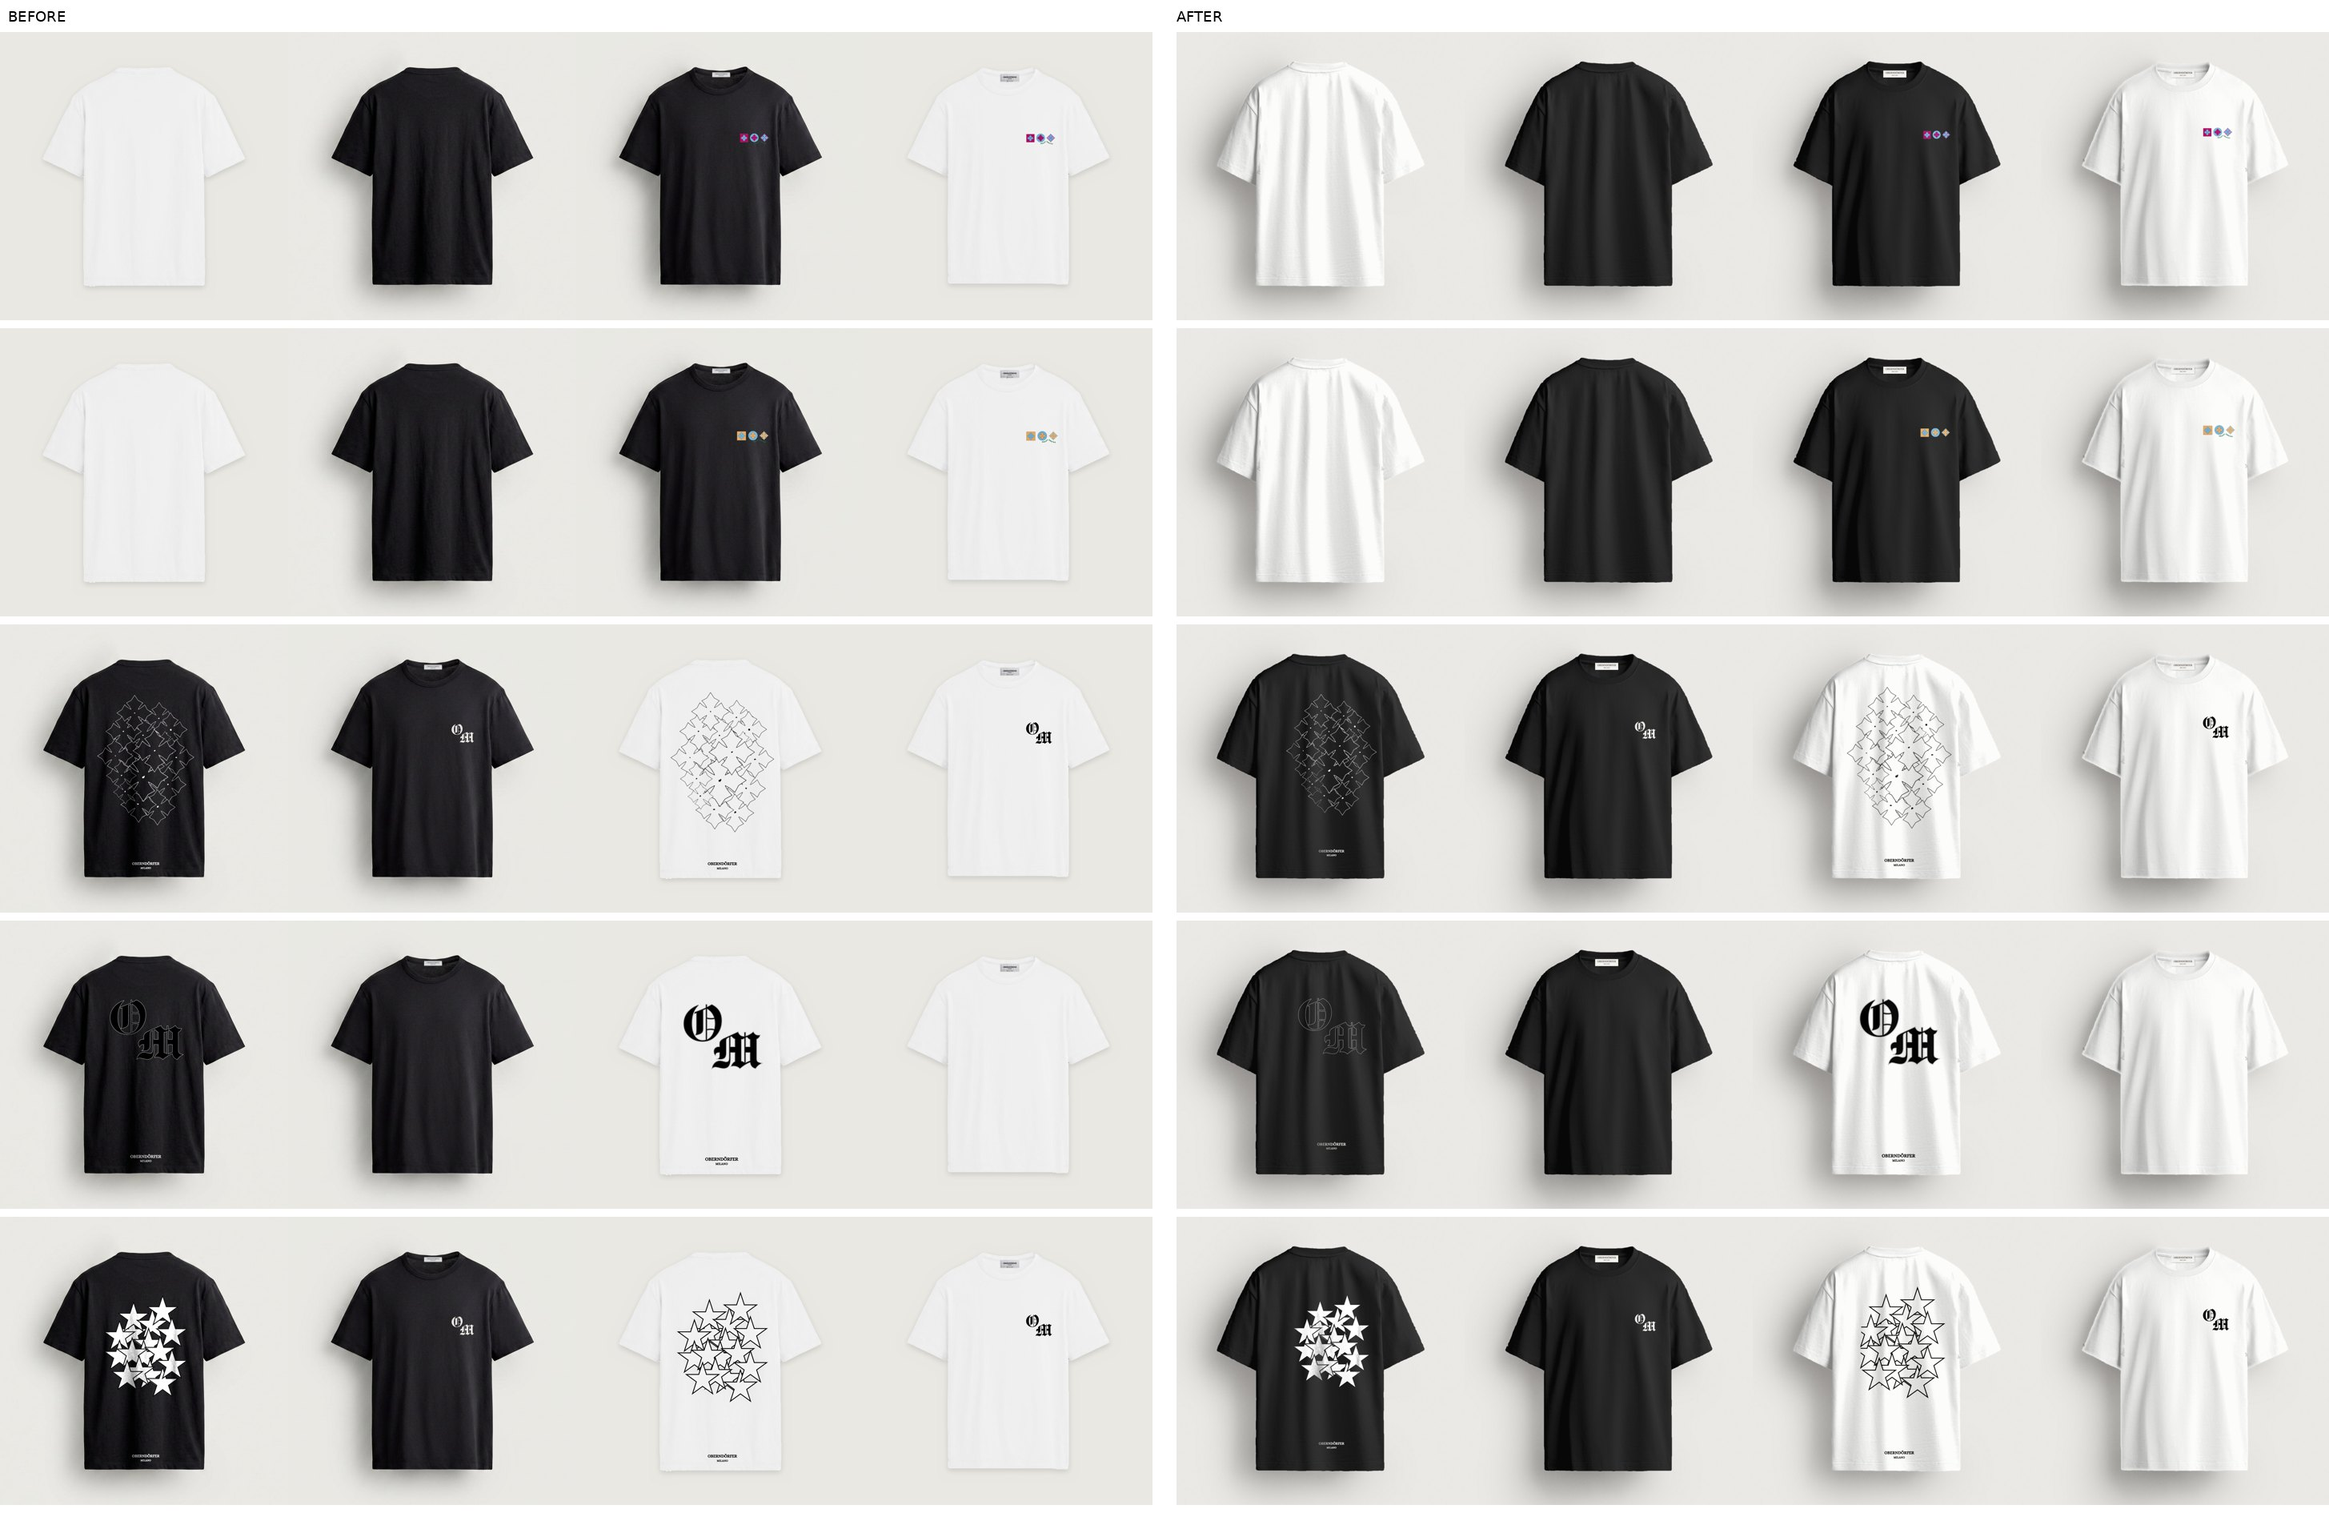
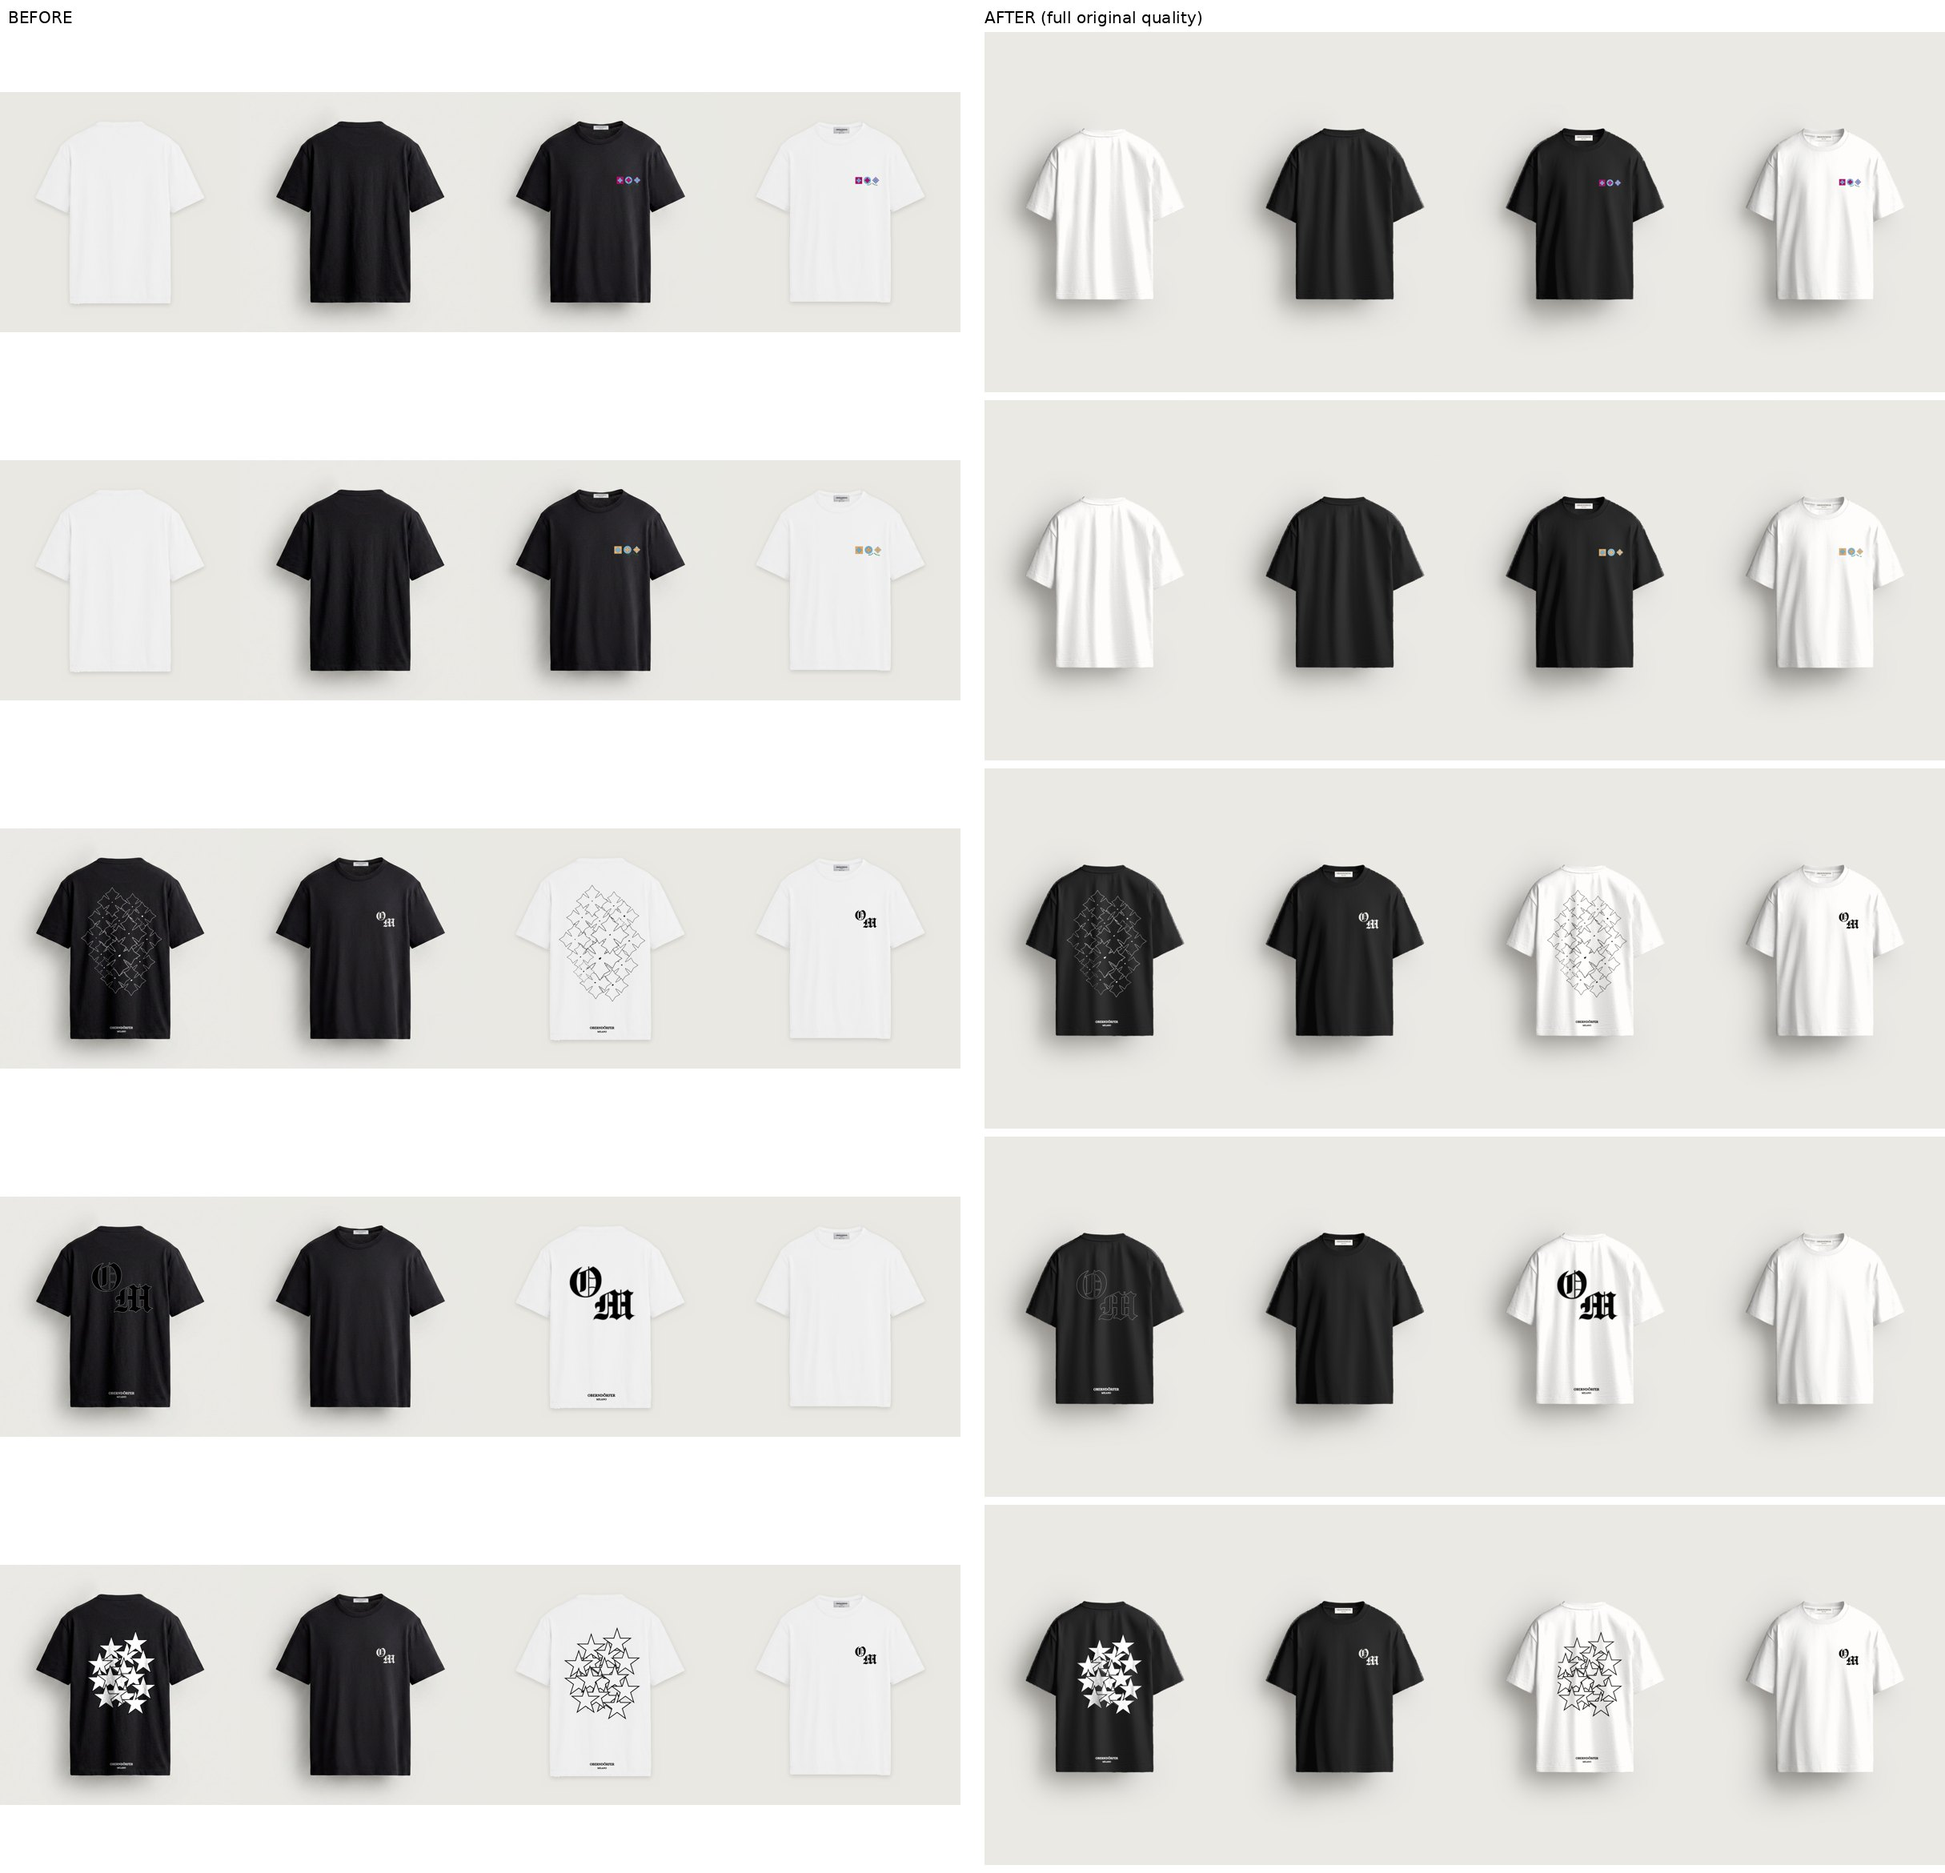
T-shirt photos v2: full-resolution in-place recolour, designs aligned to the white versions
Claude-Session: https://claude.ai/code/session_01AC1f37guDfHWxkMWq358hb

diff --git a/docs/tshirts/v2.py b/docs/tshirts/v2.py
@@ -1,0 +1,100 @@
+import cv2,numpy as np,os,sys
+from extract import shirt_geom
+from compose import make_label
+REF={'front':'ref/u3870_8.jpg','back':'ref/u3870_9.jpg'}
+def tolab(i): return cv2.cvtColor(i.astype(np.float32)/255.,cv2.COLOR_BGR2Lab)
+def tobgr(L): return np.clip(cv2.cvtColor(L.astype(np.float32),cv2.COLOR_Lab2BGR)*255,0,255)
+def recolor(side,color):
+    im=cv2.imread(REF[side]); Lab=tolab(im); L,A,B=Lab[...,0],Lab[...,1],Lab[...,2]
+    C=np.sqrt(A**2+B**2)
+    w=np.clip((C-4.5)/(10.3-4.5),0,1)                    # per-pixel pink coverage at the outline (wall chroma ~2.6)
+    w=cv2.GaussianBlur(w,(0,0),0.6)
+    m=(cv2.GaussianBlur(C,(0,0),2)>6).astype(np.uint8)
+    cnts,_=cv2.findContours(m,cv2.RETR_EXTERNAL,cv2.CHAIN_APPROX_NONE)
+    fill=np.zeros_like(m); cv2.drawContours(fill,[max(cnts,key=cv2.contourArea)],-1,1,-1)
+    interior=cv2.GaussianBlur(cv2.erode(fill,np.ones((9,9),np.uint8)).astype(np.float32),(0,0),2)
+    w=np.maximum(w,interior)                               # inside the shirt: always full recolour (highlights too)
+    wc=np.maximum(np.clip((C-3.2)/2.5,0,1),w)              # remove pink tint even on faint edge pixels
+    Lm=np.median(L[w>0.95]); d=L-Lm
+    if color=='white': T=np.clip(96.0+1.0*d,60,99.5); ta,tb=-0.1,0.9
+    else:              T=np.clip(14.0+0.62*d,2,45);   ta,tb=0.2,-0.4
+    out=Lab.copy()
+    out[...,0]=L+w*(T-L); out[...,1]=A*(1-wc)+wc*ta; out[...,2]=B*(1-wc)+wc*tb
+    return tobgr(out), w
+def shirt_bbox(w):
+    m=(w>0.5).astype(np.uint8); cnts,_=cv2.findContours(m,cv2.RETR_EXTERNAL,cv2.CHAIN_APPROX_NONE)
+    return cv2.boundingRect(max(cnts,key=cv2.contourArea))
+def extract(path):
+    im=cv2.imread(path); fill,(x,y,w,h)=shirt_geom(im)
+    inner=cv2.erode(fill,np.ones((61,61),np.uint8))
+    sc=np.median(im[inner>0].reshape(-1,3),0); dark=sc.mean()<128
+    d=np.abs(im.astype(np.float32)-sc).sum(2)
+    t0,t1=(150,330) if dark else (45,120)
+    a=np.clip((d-t0)/(t1-t0),0,1)*inner
+    n,lab,st,_=cv2.connectedComponentsWithStats((a>0.3).astype(np.uint8))
+    keep=np.zeros(a.shape,np.uint8)
+    for i in range(1,n):
+        cx,cy,cw,ch,area=st[i]
+        if area<60: continue
+        if abs(cx+cw/2-(x+w/2))>0.27*w: continue
+        if cy<y+0.11*w and abs(cx+cw/2-(x+w/2))<0.15*w: continue
+        if max(cw,ch)>150 and min(cw,ch)<22: continue
+        if abs(cx+cw/2-(x+w/2))>0.31*w: continue
+        keep[lab==i]=1
+    keep=cv2.dilate(keep,np.ones((5,5),np.uint8))
+    a=(np.clip((d-60)/(330-60),0,1) if dark else a)*keep
+    col=np.clip((im.astype(np.float32)-(1-a[...,None])*sc)/np.maximum(a,1e-3)[...,None],0,255)
+    return a,col,(x,y,w,h)
+def clusters(a,geom):
+    """split design alpha into main design and hem lockup; return list of (mask,bbox)"""
+    x,y,w,h=geom; ys,xs=np.where(a>0.2)
+    if len(xs)==0: return {}
+    cut=y+0.80*h
+    out={}
+    for name,sel in [('main',ys<cut),('hem',ys>=cut)]:
+        if sel.sum()<20: continue
+        out[name]=(xs[sel].min(),ys[sel].min(),xs[sel].max(),ys[sel].max())
+    return out
+def place(a,col,src_bbox,dst_bbox,shape):
+    sx0,sy0,sx1,sy1=src_bbox; dx0,dy0,dx1,dy1=dst_bbox
+    s=(dx1-dx0)/max(1,(sx1-sx0))
+    M=np.float32([[s,0,(dx0+dx1)/2-(sx0+sx1)/2*s],[0,s,(dy0+dy1)/2-(sy0+sy1)/2*s]])
+    A=cv2.warpAffine(a,M,(shape[1],shape[0]),flags=cv2.INTER_AREA if s<1 else cv2.INTER_LINEAR)
+    Cc=cv2.warpAffine(col,M,(shape[1],shape[0]),flags=cv2.INTER_AREA if s<1 else cv2.INTER_LINEAR)
+    return A,Cc
+def to_ref(b,g,G):
+    x,y,w,h=g; X,Y,W,H=G; s=W/w
+    return tuple(int(v) for v in ((b[0]-x)*s+X+0*(W/2-w*s/2),(b[1]-y)*s+Y,(b[2]-x)*s+X,(b[3]-y)*s+Y))
+def build(white_path, black_path, side, outdir):
+    res={}
+    aw,cw_,gw=extract(white_path); clw=clusters(aw,gw)
+    for color in ['white','black']:
+        img,w=recolor(side,color); G=shirt_bbox(w)
+        if color=='white': a,col,g,cl=aw,cw_,gw,clw
+        else: a,col,g=extract(black_path); cl=clusters(a,g)
+        if color=='black' and 'hem' in clw:
+            cl=dict(cl); cl.pop('hem',None)
+            b=clw['hem']; dst=to_ref(b,gw,G)
+            m=np.zeros(aw.shape,np.float32); m[b[1]-3:b[3]+4,b[0]-3:b[2]+4]=1
+            A,_=place(aw*m,cw_,b,dst,img.shape); A=cv2.GaussianBlur(A,(0,0),0.4)*w
+            med=np.median(img[w>0.98].reshape(-1,3),0)
+            ink=np.clip(np.array([238,238,236],np.float32)+0.8*(img-med),0,255)
+            img=img*(1-A[...,None])+ink*A[...,None]
+        for name,b in cl.items():
+            # destination = where this element sits on the WHITE shirt (mapped to the reference)
+            ref_b=clw.get(name,b); gg=gw if name in clw else g
+            dst=to_ref(ref_b,gg,G)
+            m=np.zeros(a.shape,np.float32); m[b[1]-3:b[3]+4,b[0]-3:b[2]+4]=1
+            A,Cc=place(a*m,col,b,dst,img.shape)
+            A=cv2.GaussianBlur(A,(0,0),0.4)*w
+            med=np.median(img[w>0.98].reshape(-1,3),0)
+            ink=np.clip(Cc+0.8*(img-med),0,255)
+            img=img*(1-A[...,None])+ink*A[...,None]
+        if side=='front':
+            X0,Y0,X1,Y1=612,573,710,603
+            lb=make_label(X1-X0,Y1-Y0)
+            lb=cv2.resize(cv2.resize(lb,((X1-X0)*10,(Y1-Y0)*10)),(X1-X0,Y1-Y0),interpolation=cv2.INTER_AREA)
+            sh=np.zeros(img.shape[:2],np.float32); sh[Y0+2:Y1+2,X0+1:X1+1]=1; sh=cv2.GaussianBlur(sh,(0,0),1.5)
+            img=img*(1-0.25*sh[...,None]); img[Y0:Y1,X0:X1]=lb*np.linspace(0.96,1,Y1-Y0)[:,None,None]
+        res[color]=img
+    return res

diff --git a/docs/tshirts/run_v2.py b/docs/tshirts/run_v2.py
@@ -1,0 +1,18 @@
+import sys,cv2,os
+sys.path.insert(0,os.path.dirname(os.path.abspath(__file__)))
+from v2 import build
+os.makedirs('v2out',exist_ok=True)
+pairs={'om':('obm-tee-om-white-back-v4','obm-tee-om-black-back','obm-tee-om-white-front-v4','obm-tee-om-black-front'),
+ 'star':('obm-tee-star-white-back-v4','obm-tee-star-black-back','obm-tee-star-white-front-v4','obm-tee-star-black-front'),
+ 'lattice':('obm-tee-lattice-white-back-v4','obm-tee-lattice-black-back_69bc69c4-e4fd-44df-8db2-c854accda415','obm-tee-lattice-white-front-v4','obm-tee-lattice-black-front_b0122e34-a437-4cea-b154-0593409d9e09'),
+ 'magenta':('obm-tee-emblem-magenta-back','obm-tee-emblem-magenta-black-back','obm-tee-emblem-magenta-front','obm-tee-emblem-magenta-black-front'),
+ 'ochre':('obm-tee-emblem-ochre-back','obm-tee-emblem-ochre-black-back','obm-tee-emblem-ochre-front','obm-tee-emblem-ochre-black-front')}
+for k,(wb,bb,wf,bf) in pairs.items():
+    for side,(wp,bp) in [('back',(wb,bb)),('front',(wf,bf))]:
+        r=build(f'orig/{wp}.jpg',f'orig/{bp}.jpg',side,'v2out')
+        for c,n in [('white',wp),('black',bp)]: cv2.imwrite(f'v2out/{n}.jpg',r[c].clip(0,255).astype('uint8'),[cv2.IMWRITE_JPEG_QUALITY,95])
+from PIL import Image; import glob
+fs=sorted(glob.glob('v2out/*.jpg')); W,H=240,360
+s=Image.new('RGB',(W*10,H*2),'white')
+for i,f in enumerate(fs): s.paste(Image.open(f).resize((W,H)),((i%10)*W,(i//10)*H))
+s.save('sheet_v2.jpg',quality=88)
